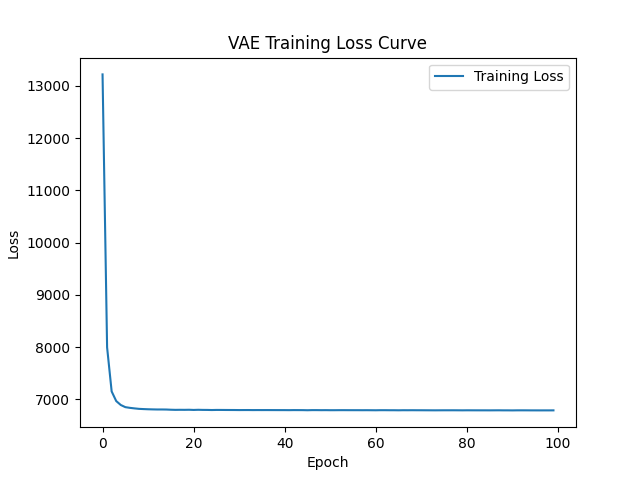
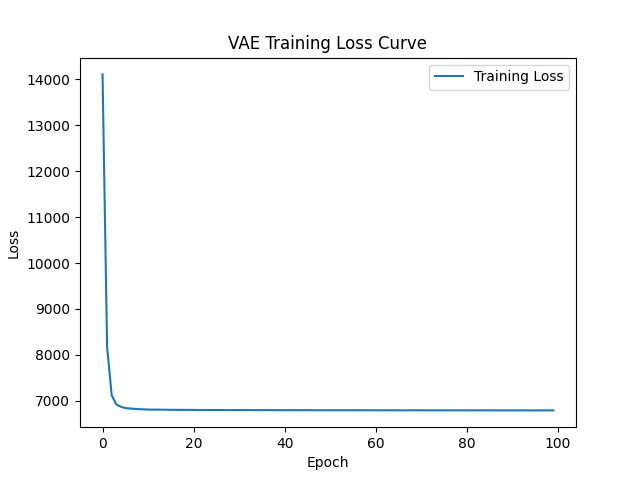
update

diff --git a/AD_method_VAE.py b/AD_method_VAE.py
@@ -1,3 +1,4 @@
+# pip install numpy pandas matplotlib scikit-learn torch PyQt5 tqdm
 # https://adamoudad.github.io/posts/ecg-anomaly-detection/
 import pandas as pd
 import numpy as np
@@ -38,45 +39,60 @@ plt.legend()
 plt.savefig("ecg_mean.png")
 plt.show()
 
-# Encoder definition
+# VAE Encoder
 class Encoder(torch.nn.Module):
-    def __init__(self, input_size=140):
+    def __init__(self, input_size=140, latent_dim=8):
         super(Encoder, self).__init__()
-        self.enc1 = torch.nn.Linear(input_size, 32)
-        self.enc2 = torch.nn.Linear(32, 16)
-        self.enc3 = torch.nn.Linear(16, 8)
+        self.fc1 = torch.nn.Linear(input_size, 32)
+        self.fc2 = torch.nn.Linear(32, 16)
+        self.fc_mu = torch.nn.Linear(16, latent_dim)
+        self.fc_logvar = torch.nn.Linear(16, latent_dim)
 
     def forward(self, x):
-        x = torch.relu(self.enc1(x))
-        x = torch.relu(self.enc2(x))
-        x = torch.relu(self.enc3(x))
-        return x
+        x = torch.relu(self.fc1(x))
+        x = torch.relu(self.fc2(x))
+        mu = self.fc_mu(x)
+        logvar = self.fc_logvar(x)
+        return mu, logvar
 
-# Decoder definition
+# VAE Decoder
 class Decoder(torch.nn.Module):
-    def __init__(self, output_size=140):
+    def __init__(self, latent_dim=8, output_size=140):
         super(Decoder, self).__init__()
-        self.dec1 = torch.nn.Linear(8, 16)
-        self.dec2 = torch.nn.Linear(16, 32)
-        self.dec3 = torch.nn.Linear(32, output_size)
+        self.fc1 = torch.nn.Linear(latent_dim, 16)
+        self.fc2 = torch.nn.Linear(16, 32)
+        self.fc3 = torch.nn.Linear(32, output_size)
+
+    def forward(self, z):
+        z = torch.relu(self.fc1(z))
+        z = torch.relu(self.fc2(z))
+        z = torch.sigmoid(self.fc3(z))
+        return z
+
+# VAE Model
+class VAE(torch.nn.Module):
+    def __init__(self, input_size=140, latent_dim=8):
+        super(VAE, self).__init__()
+        self.encoder = Encoder(input_size, latent_dim)
+        self.decoder = Decoder(latent_dim, input_size)
+
+    def reparameterize(self, mu, logvar):
+        std = torch.exp(0.5 * logvar)
+        eps = torch.randn_like(std)
+        return mu + eps * std
 
     def forward(self, x):
-        x = torch.relu(self.dec1(x))
-        x = torch.relu(self.dec2(x))
-        x = torch.sigmoid(self.dec3(x))
-        return x
+        mu, logvar = self.encoder(x)
+        z = self.reparameterize(mu, logvar)
+        recon_x = self.decoder(z)
+        return recon_x, mu, logvar
 
-# Autoencoder using Encoder and Decoder
-class Autoencoder(torch.nn.Module):
-    def __init__(self, input_size=140):
-        super(Autoencoder, self).__init__()
-        self.encoder = Encoder(input_size)
-        self.decoder = Decoder(input_size)
-
-    def forward(self, x):
-        x = self.encoder(x)
-        x = self.decoder(x)
-        return x
+# VAE loss function
+def vae_loss(recon_x, x, mu, logvar):
+    recon_loss = torch.nn.functional.l1_loss(recon_x, x, reduction='sum')
+    # KL divergence
+    kl_loss = -0.5 * torch.sum(1 + logvar - mu.pow(2) - logvar.exp())
+    return recon_loss + kl_loss
 
 # Data split function
 def train_test_split(data, labels, test_size=0.2, random_state=None):
@@ -103,27 +119,24 @@ test_labels = test_labels.astype(bool)
 normal_train_data = train_data[train_labels]
 normal_test_data = test_data[test_labels]
 
-# Training setup
-batch_size = 32
+# Replace Autoencoder with VAE
+vae = VAE().to(device)
+optimizer = torch.optim.Adam(vae.parameters())
 epochs = 100
+batch_size = 32
 losses = []
 
-autoencoder = Autoencoder().to(device)
-optimizer = torch.optim.Adam(autoencoder.parameters())
-criterion = torch.nn.L1Loss()
-
-n_batches = len(normal_train_data) // batch_size
-
 # Training loop
-autoencoder.train()
+vae.train()
+n_batches = len(normal_train_data) // batch_size
 with trange(epochs) as tbar:
     for epoch in tbar:
         epoch_loss = 0.
         for i in range(0, len(normal_train_data), batch_size):
             batch = normal_train_data[i:i+batch_size]
             optimizer.zero_grad()
-            outputs = autoencoder(batch)
-            loss = criterion(outputs, batch)
+            recon_batch, mu, logvar = vae(batch)
+            loss = vae_loss(recon_batch, batch, mu, logvar)
             epoch_loss += loss.item()
             loss.backward()
             optimizer.step()
@@ -135,18 +148,18 @@ plt.figure()
 plt.plot(losses, label="Training Loss")
 plt.xlabel("Epoch")
 plt.ylabel("Loss")
-plt.title("Autoencoder Training Loss Curve")
+plt.title("VAE Training Loss Curve")
 plt.legend()
-plt.savefig("training_loss_curve.png")
+plt.savefig("vae_training_loss_curve.png")
 plt.show()
 
 # Evaluation
-autoencoder.eval()
+vae.eval()
 with torch.no_grad():
-    reconstructed = autoencoder(test_data)
-    reconstruction_error = torch.mean(torch.abs(reconstructed - test_data), dim=1).cpu().numpy()
-    train_recon = autoencoder(normal_train_data)
-    train_error = torch.mean(torch.abs(train_recon - normal_train_data), dim=1).cpu().numpy()
+    recon_test, mu, logvar = vae(test_data)
+    reconstruction_error = torch.mean(torch.abs(recon_test - test_data), dim=1).cpu().numpy()
+    recon_train, mu_train, logvar_train = vae(normal_train_data)
+    train_error = torch.mean(torch.abs(recon_train - normal_train_data), dim=1).cpu().numpy()
 
 threshold = np.percentile(train_error, 95)
 y_pred = (reconstruction_error < threshold).astype(int)
@@ -158,7 +171,7 @@ cm = confusion_matrix(y_true, y_pred)
 disp = ConfusionMatrixDisplay(confusion_matrix=cm, display_labels=["Abnormal", "Normal"])
 disp.plot(cmap=plt.cm.Blues)
 plt.title("Confusion Matrix")
-plt.savefig("confusion_matrix.png")  # Save the confusion matrix plot
+plt.savefig("vae_confusion_matrix.png")
 plt.show()
 
 

diff --git a/AD_method_AE.py b/AD_method_AE.py
@@ -1,3 +1,4 @@
+# pip install numpy pandas matplotlib scikit-learn torch PyQt5 tqdm
 # https://adamoudad.github.io/posts/ecg-anomaly-detection/
 import pandas as pd
 import numpy as np
@@ -38,60 +39,45 @@ plt.legend()
 plt.savefig("ecg_mean.png")
 plt.show()
 
-# VAE Encoder
+# Encoder definition
 class Encoder(torch.nn.Module):
-    def __init__(self, input_size=140, latent_dim=8):
+    def __init__(self, input_size=140):
         super(Encoder, self).__init__()
-        self.fc1 = torch.nn.Linear(input_size, 32)
-        self.fc2 = torch.nn.Linear(32, 16)
-        self.fc_mu = torch.nn.Linear(16, latent_dim)
-        self.fc_logvar = torch.nn.Linear(16, latent_dim)
+        self.enc1 = torch.nn.Linear(input_size, 32)
+        self.enc2 = torch.nn.Linear(32, 16)
+        self.enc3 = torch.nn.Linear(16, 8)
 
     def forward(self, x):
-        x = torch.relu(self.fc1(x))
-        x = torch.relu(self.fc2(x))
-        mu = self.fc_mu(x)
-        logvar = self.fc_logvar(x)
-        return mu, logvar
+        x = torch.relu(self.enc1(x))
+        x = torch.relu(self.enc2(x))
+        x = torch.relu(self.enc3(x))
+        return x
 
-# VAE Decoder
+# Decoder definition
 class Decoder(torch.nn.Module):
-    def __init__(self, latent_dim=8, output_size=140):
+    def __init__(self, output_size=140):
         super(Decoder, self).__init__()
-        self.fc1 = torch.nn.Linear(latent_dim, 16)
-        self.fc2 = torch.nn.Linear(16, 32)
-        self.fc3 = torch.nn.Linear(32, output_size)
-
-    def forward(self, z):
-        z = torch.relu(self.fc1(z))
-        z = torch.relu(self.fc2(z))
-        z = torch.sigmoid(self.fc3(z))
-        return z
-
-# VAE Model
-class VAE(torch.nn.Module):
-    def __init__(self, input_size=140, latent_dim=8):
-        super(VAE, self).__init__()
-        self.encoder = Encoder(input_size, latent_dim)
-        self.decoder = Decoder(latent_dim, input_size)
-
-    def reparameterize(self, mu, logvar):
-        std = torch.exp(0.5 * logvar)
-        eps = torch.randn_like(std)
-        return mu + eps * std
+        self.dec1 = torch.nn.Linear(8, 16)
+        self.dec2 = torch.nn.Linear(16, 32)
+        self.dec3 = torch.nn.Linear(32, output_size)
 
     def forward(self, x):
-        mu, logvar = self.encoder(x)
-        z = self.reparameterize(mu, logvar)
-        recon_x = self.decoder(z)
-        return recon_x, mu, logvar
+        x = torch.relu(self.dec1(x))
+        x = torch.relu(self.dec2(x))
+        x = torch.sigmoid(self.dec3(x))
+        return x
 
-# VAE loss function
-def vae_loss(recon_x, x, mu, logvar):
-    recon_loss = torch.nn.functional.l1_loss(recon_x, x, reduction='sum')
-    # KL divergence
-    kl_loss = -0.5 * torch.sum(1 + logvar - mu.pow(2) - logvar.exp())
-    return recon_loss + kl_loss
+# Autoencoder using Encoder and Decoder
+class Autoencoder(torch.nn.Module):
+    def __init__(self, input_size=140):
+        super(Autoencoder, self).__init__()
+        self.encoder = Encoder(input_size)
+        self.decoder = Decoder(input_size)
+
+    def forward(self, x):
+        x = self.encoder(x)
+        x = self.decoder(x)
+        return x
 
 # Data split function
 def train_test_split(data, labels, test_size=0.2, random_state=None):
@@ -118,24 +104,27 @@ test_labels = test_labels.astype(bool)
 normal_train_data = train_data[train_labels]
 normal_test_data = test_data[test_labels]
 
-# Replace Autoencoder with VAE
-vae = VAE().to(device)
-optimizer = torch.optim.Adam(vae.parameters())
-epochs = 100
+# Training setup
 batch_size = 32
+epochs = 100
 losses = []
 
-# Training loop
-vae.train()
+autoencoder = Autoencoder().to(device)
+optimizer = torch.optim.Adam(autoencoder.parameters())
+criterion = torch.nn.L1Loss()
+
 n_batches = len(normal_train_data) // batch_size
+
+# Training loop
+autoencoder.train()
 with trange(epochs) as tbar:
     for epoch in tbar:
         epoch_loss = 0.
         for i in range(0, len(normal_train_data), batch_size):
             batch = normal_train_data[i:i+batch_size]
             optimizer.zero_grad()
-            recon_batch, mu, logvar = vae(batch)
-            loss = vae_loss(recon_batch, batch, mu, logvar)
+            outputs = autoencoder(batch)
+            loss = criterion(outputs, batch)
             epoch_loss += loss.item()
             loss.backward()
             optimizer.step()
@@ -147,18 +136,18 @@ plt.figure()
 plt.plot(losses, label="Training Loss")
 plt.xlabel("Epoch")
 plt.ylabel("Loss")
-plt.title("VAE Training Loss Curve")
+plt.title("Autoencoder Training Loss Curve")
 plt.legend()
-plt.savefig("vae_training_loss_curve.png")
+plt.savefig("training_loss_curve.png")
 plt.show()
 
 # Evaluation
-vae.eval()
+autoencoder.eval()
 with torch.no_grad():
-    recon_test, mu, logvar = vae(test_data)
-    reconstruction_error = torch.mean(torch.abs(recon_test - test_data), dim=1).cpu().numpy()
-    recon_train, mu_train, logvar_train = vae(normal_train_data)
-    train_error = torch.mean(torch.abs(recon_train - normal_train_data), dim=1).cpu().numpy()
+    reconstructed = autoencoder(test_data)
+    reconstruction_error = torch.mean(torch.abs(reconstructed - test_data), dim=1).cpu().numpy()
+    train_recon = autoencoder(normal_train_data)
+    train_error = torch.mean(torch.abs(train_recon - normal_train_data), dim=1).cpu().numpy()
 
 threshold = np.percentile(train_error, 95)
 y_pred = (reconstruction_error < threshold).astype(int)
@@ -170,7 +159,7 @@ cm = confusion_matrix(y_true, y_pred)
 disp = ConfusionMatrixDisplay(confusion_matrix=cm, display_labels=["Abnormal", "Normal"])
 disp.plot(cmap=plt.cm.Blues)
 plt.title("Confusion Matrix")
-plt.savefig("vae_confusion_matrix.png")
+plt.savefig("confusion_matrix.png")  # Save the confusion matrix plot
 plt.show()
 
 

diff --git a/AD_method_GPT_notuse.py b/AD_method_GPT_notuse.py
@@ -1,4 +1,4 @@
-# pip install numpy pandas matplotlib scikit-learn torch tk PyQt5
+# pip install numpy pandas matplotlib scikit-learn torch PyQt5 tqdm
 # dataset from:
 # https://www.cs.ucr.edu/~eamonn/time_series_data_2018/
 # http://storage.googleapis.com/download.tensorflow.org/data/ecg.csv
